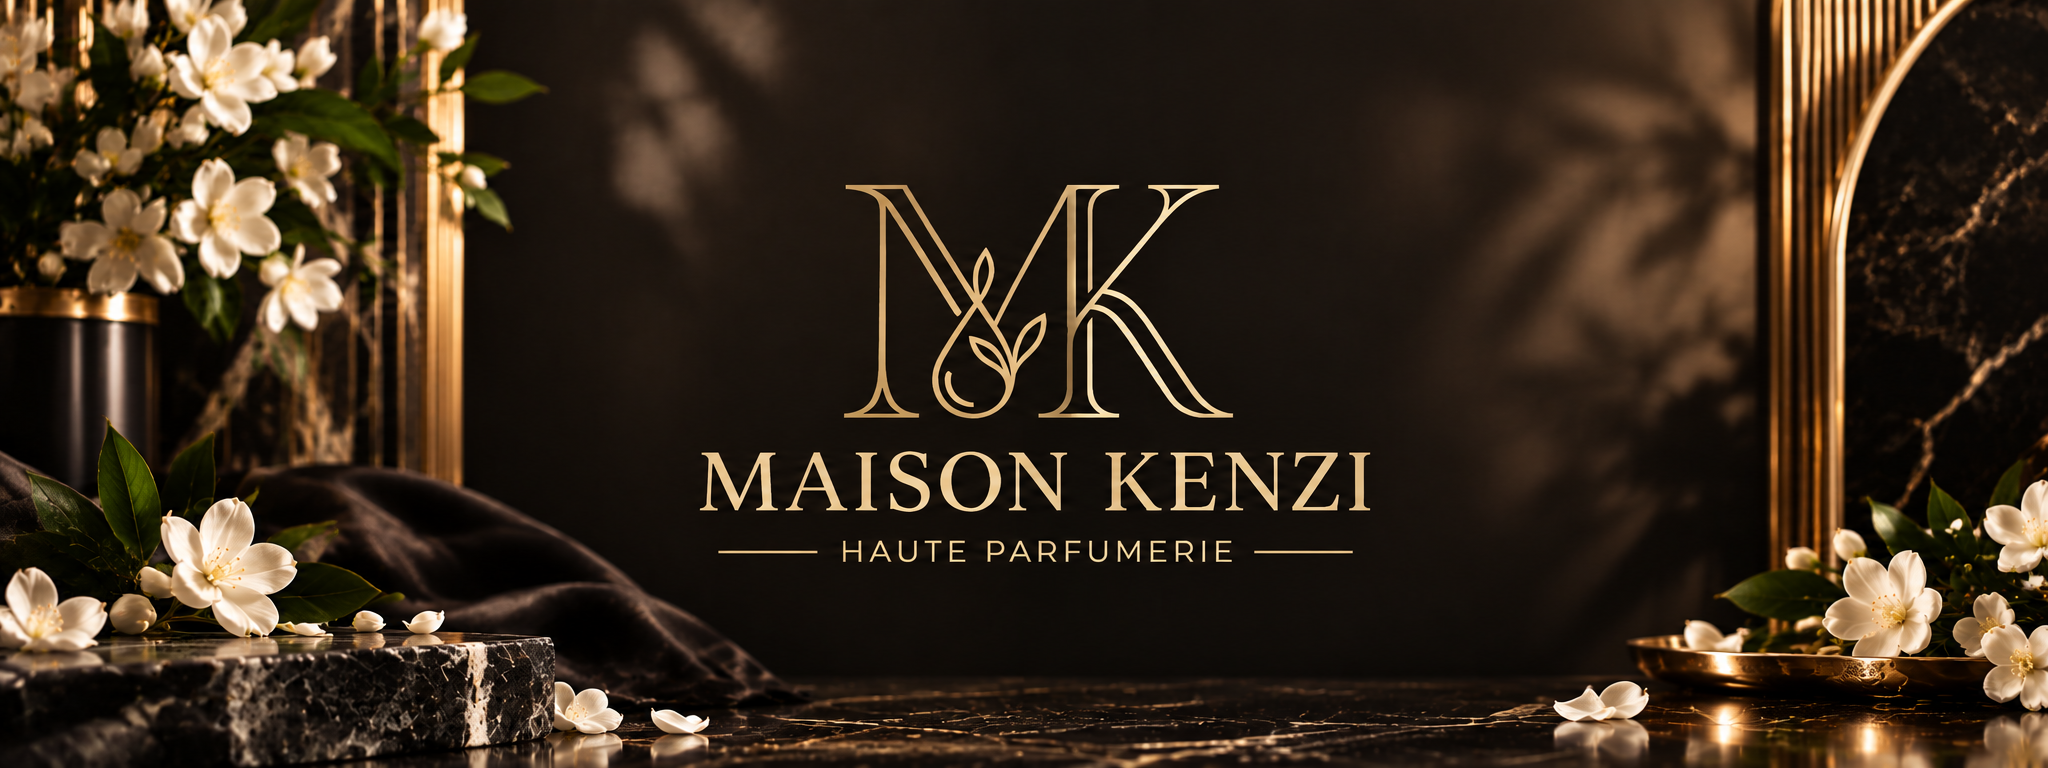
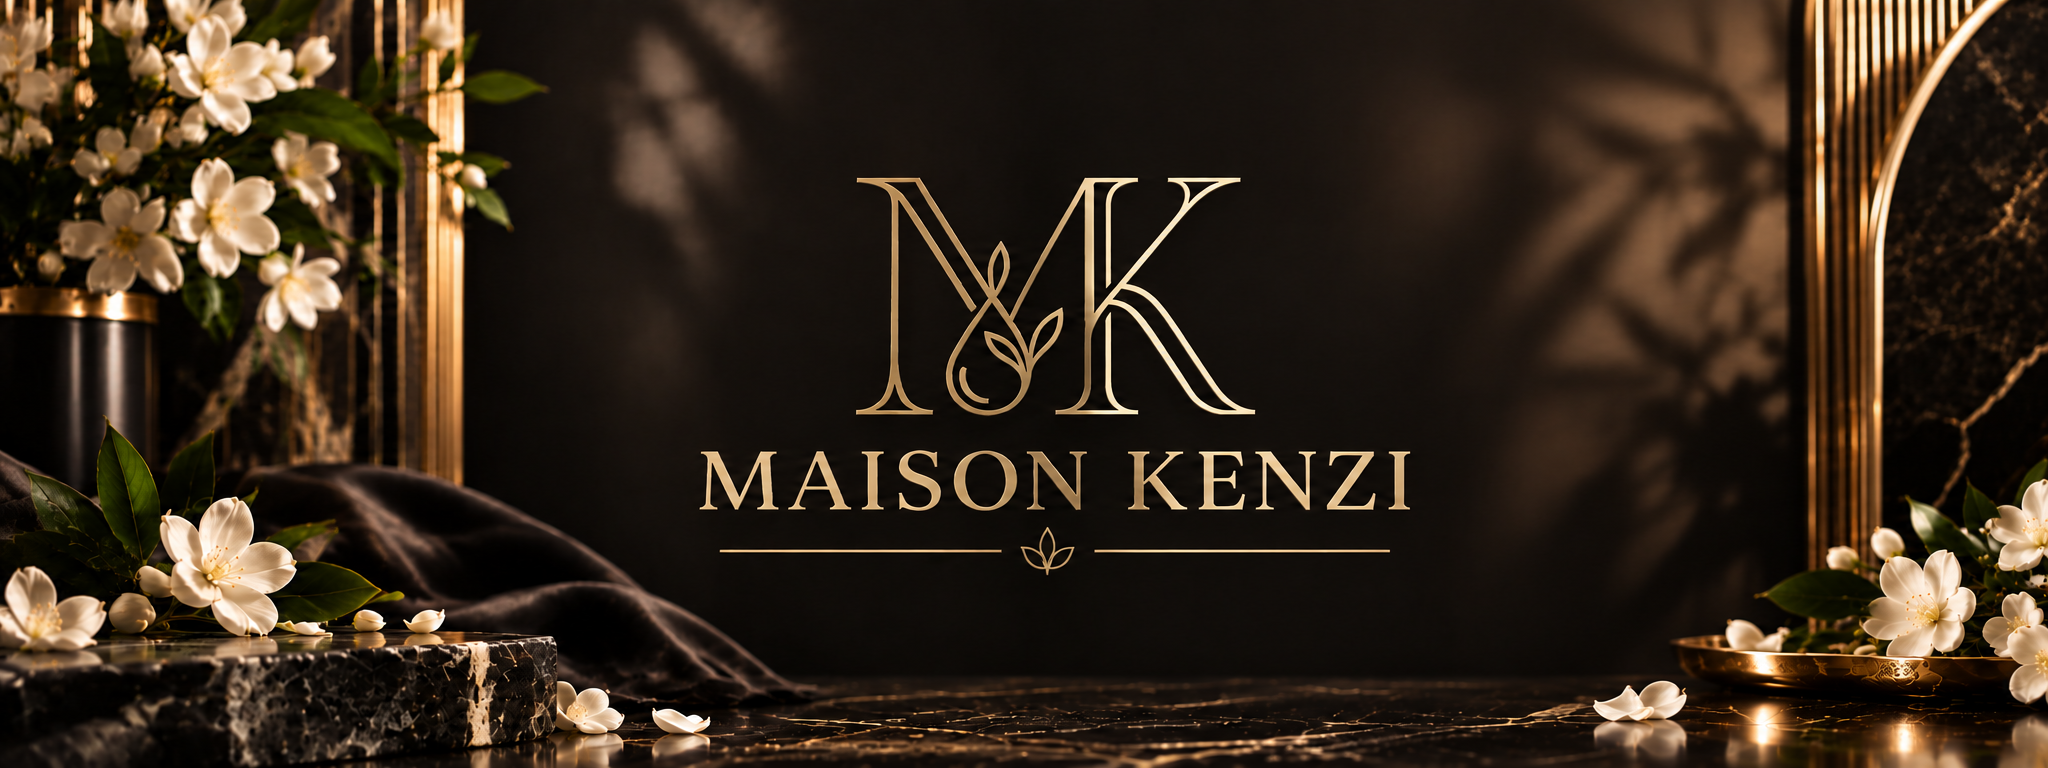
fix(categories): unification de la taille de la section photo des categories

diff --git a/src/pages/Category.tsx b/src/pages/Category.tsx
@@ -1,3 +1,10 @@
+/**
+ * Page Catalogue & Collections — Maison Kenzi
+ *
+ * Affiche le catalogue de créations olfactives et soins d'exception avec un bandeau hero
+ * à hauteur unifiée et calibrée pour toutes les collections, filtres dynamiques, tri et pagination.
+ */
+
 import { useState, useMemo, useEffect } from "react";
 import { useParams, Link, useNavigate } from "react-router-dom";
 import Header from "../components/header/Header";
@@ -277,7 +284,9 @@ const Collection = () => {
       return currentCategoryObj.images.filter(Boolean);
     }
     const single = currentCategoryObj?.image || currentCategoryObj?.icon;
-    return single ? [single] : [];
+    if (single) return [single];
+    // Bannière de repli prestigieuse Maison Kenzi pour unifier toutes les collections
+    return ["/mk-banner.png"];
   }, [currentCategoryObj]);
 
   const [currentBannerIndex, setCurrentBannerIndex] = useState(0);
@@ -333,192 +342,145 @@ const Collection = () => {
       <Header />
 
       <main className="flex-1 pb-16">
-        {/* Luxury Category Hero Banner (Automatique 5s + Manuel au choix) */}
-        {categoryBanners.length > 0 ? (
-          <section
-            onMouseEnter={() => setIsPaused(true)}
-            onMouseLeave={() => setIsPaused(false)}
-            onTouchStart={handleTouchStart}
-            onTouchEnd={handleTouchEnd}
-            className="relative w-full overflow-hidden bg-[#0C0B0A] border-b border-[#C9A96E]/20 group/hero select-none"
-          >
-            {/* Images de fond en carrousel avec transition douce (cross-fade) */}
-            <div className="absolute inset-0 z-0 pointer-events-none">
-              {categoryBanners.map((imgUrl, idx) => (
-                <div
-                  key={`${imgUrl}-${idx}`}
-                  className={`absolute inset-0 transition-all duration-1000 ease-in-out ${idx === currentBannerIndex
-                    ? "opacity-100 scale-100"
-                    : "opacity-0 scale-105 pointer-events-none"
-                    }`}
-                >
-                  <img
-                    src={imgUrl}
-                    alt={`${hero.title} — Bannière ${idx + 1}`}
-                    className="w-full h-full object-cover object-center"
-                  />
-                </div>
-              ))}
-
-              {/* Voiles de dégradé pour préserver l'éclat de la photo tout en assurant une lisibilité parfaite */}
-              <div className="absolute inset-0 bg-gradient-to-t from-black/60 via-black/25 to-black/15" />
-              <div className="absolute inset-0 bg-gradient-to-r from-black/50 via-black/20 to-transparent" />
-            </div>
-
-            {/* Contrôles fléchés manuels de navigation (si > 1 photo) */}
-            {categoryBanners.length > 1 && (
-              <>
-                <button
-                  type="button"
-                  onClick={(e) => {
-                    e.stopPropagation();
-                    prevBanner();
-                  }}
-                  className="absolute left-3 sm:left-6 top-1/2 -translate-y-1/2 z-20 w-9 h-9 sm:w-11 sm:h-11 rounded-full bg-black/45 hover:bg-[#C9A96E] text-white hover:text-[#121110] border border-white/20 hover:border-[#C9A96E] backdrop-blur-md flex items-center justify-center transition-all opacity-70 sm:opacity-0 group-hover/hero:opacity-100 hover:scale-105 cursor-pointer shadow-lg active:scale-95"
-                  title={t.catalog.prevPhoto}
-                  aria-label={t.catalog.prevPhoto}
-                >
-                  <ChevronLeft className="w-5 h-5" />
-                </button>
-                <button
-                  type="button"
-                  onClick={(e) => {
-                    e.stopPropagation();
-                    nextBanner();
-                  }}
-                  className="absolute right-3 sm:right-6 top-1/2 -translate-y-1/2 z-20 w-9 h-9 sm:w-11 sm:h-11 rounded-full bg-black/45 hover:bg-[#C9A96E] text-white hover:text-[#121110] border border-white/20 hover:border-[#C9A96E] backdrop-blur-md flex items-center justify-center transition-all opacity-70 sm:opacity-0 group-hover/hero:opacity-100 hover:scale-105 cursor-pointer shadow-lg active:scale-95"
-                  title={t.catalog.nextPhoto}
-                  aria-label={t.catalog.nextPhoto}
-                >
-                  <ChevronRight className="w-5 h-5" />
-                </button>
-              </>
-            )}
-
-            {/* Contenu de la Bannière de Catégorie */}
-            <div className="relative z-10 max-w-7xl mx-auto px-4 sm:px-6 pt-32 sm:pt-36 md:pt-40 pb-12 sm:pb-16 flex flex-col justify-end min-h-[280px] sm:min-h-[340px] md:min-h-[380px]">
-              <div className="space-y-3.5 max-w-3xl">
-                {/* Fil d'ariane en verre dépoli */}
-                <Breadcrumb>
-                  <BreadcrumbList className="text-[10px] sm:text-xs">
-                    <BreadcrumbItem>
-                      <BreadcrumbLink asChild>
-                        <Link to="/" className="text-white/70 hover:text-[#C9A96E] transition-colors">
-                          {t.nav.home}
-                        </Link>
-                      </BreadcrumbLink>
-                    </BreadcrumbItem>
-                    <BreadcrumbSeparator className="text-white/40" />
-                    <BreadcrumbItem>
-                      <BreadcrumbPage className="text-[#C9A96E] font-medium">
-                        {hero.title}
-                      </BreadcrumbPage>
-                    </BreadcrumbItem>
-                  </BreadcrumbList>
-                </Breadcrumb>
-
-                {/* Badges d'univers & sous-titre */}
-                <div className="flex items-center gap-2 flex-wrap pt-1">
-                  {hero.badge && (
-                    <div className="inline-flex items-center gap-1.5 px-3 py-1 rounded-full bg-[#C9A96E]/20 border border-[#C9A96E]/40 text-[#C9A96E] text-[10px] sm:text-xs font-semibold uppercase tracking-wider backdrop-blur-md shadow-xs">
-                      <Sparkles className="w-3 h-3 text-[#C9A96E]" />
-                      <span>{hero.badge}</span>
-                    </div>
-                  )}
-                  {hero.subtitle && (
-                    <span className="text-[10px] sm:text-xs uppercase tracking-[0.2em] text-white/75 font-medium px-2.5 py-0.5 rounded-full bg-white/10 backdrop-blur-md border border-white/15">
-                      {hero.subtitle}
-                    </span>
-                  )}
-                </div>
-
-                {/* Titre éditorial de la Collection */}
-                <h1 className="font-serif text-3xl sm:text-5xl md:text-6xl text-white font-normal tracking-tight drop-shadow-md leading-[1.1]">
-                  {hero.title}
-                </h1>
-
-                {/* Description de l'univers olfactif */}
-                {hero.description && (
-                  <p className="text-xs sm:text-sm md:text-base text-white/85 leading-relaxed font-light max-w-2xl pt-1 drop-shadow-xs">
-                    {hero.description}
-                  </p>
-                )}
+        {/* Luxury Category Hero Banner — Hauteur Unifiée & Calibrée pour Toutes les Collections */}
+        <section
+          onMouseEnter={() => setIsPaused(true)}
+          onMouseLeave={() => setIsPaused(false)}
+          onTouchStart={handleTouchStart}
+          onTouchEnd={handleTouchEnd}
+          className="relative w-full h-[360px] sm:h-[400px] md:h-[450px] lg:h-[480px] overflow-hidden bg-[#0C0B0A] border-b border-[#C9A96E]/20 group/hero select-none"
+        >
+          {/* Images de fond en carrousel avec transition douce (cross-fade) */}
+          <div className="absolute inset-0 z-0 pointer-events-none">
+            {categoryBanners.map((imgUrl, idx) => (
+              <div
+                key={`${imgUrl}-${idx}`}
+                className={`absolute inset-0 transition-all duration-1000 ease-in-out ${idx === currentBannerIndex
+                  ? "opacity-100 scale-100"
+                  : "opacity-0 scale-105 pointer-events-none"
+                  }`}
+              >
+                <img
+                  src={imgUrl}
+                  alt={`${hero.title} — Bannière ${idx + 1}`}
+                  className="w-full h-full object-cover object-center"
+                />
               </div>
+            ))}
 
-              {/* Contrôles de navigation manuels (Puces + Compteur interactif) */}
-              {categoryBanners.length > 1 && (
-                <div className="flex items-center gap-3 pt-6">
-                  <div className="flex items-center gap-2 bg-black/30 backdrop-blur-md px-3 py-1.5 rounded-full border border-white/10">
-                    {categoryBanners.map((_, dotIdx) => (
-                      <button
-                        key={`dot-${dotIdx}`}
-                        type="button"
-                        onClick={(e) => {
-                          e.stopPropagation();
-                          setCurrentBannerIndex(dotIdx);
-                        }}
-                        className={`h-2 rounded-full transition-all duration-300 cursor-pointer ${dotIdx === currentBannerIndex
-                          ? "w-7 bg-[#C9A96E] shadow-sm shadow-[#C9A96E]/50"
-                          : "w-2 bg-white/40 hover:bg-white/80"
-                          }`}
-                        title={`${t.catalog.prevPhoto} ${dotIdx + 1}`}
-                        aria-label={`${t.catalog.prevPhoto} ${dotIdx + 1}`}
-                      />
-                    ))}
-                    <span className="text-[10px] font-medium text-white/70 ml-1">
-                      {currentBannerIndex + 1} / {categoryBanners.length}
-                    </span>
-                  </div>
-                </div>
-              )}
-            </div>
-          </section>
-        ) : (
-          /* En-tête épuré standard lorsque la catégorie n'a pas d'image */
-          <section className="relative w-full border-b border-border/70 bg-gradient-to-b from-card/60 via-card/30 to-background pt-28 sm:pt-32 md:pt-36 pb-8 sm:pb-12 px-4 sm:px-6 overflow-hidden">
-            {/* Subtle Ambient Glow */}
-            <div className="absolute top-0 left-1/2 -translate-x-1/2 w-3/4 h-36 bg-primary/5 blur-3xl rounded-full pointer-events-none" />
+            {/* Voiles de dégradé pour préserver l'éclat de la photo tout en assurant une lisibilité parfaite */}
+            <div className="absolute inset-0 bg-gradient-to-t from-black/75 via-black/35 to-black/20" />
+            <div className="absolute inset-0 bg-gradient-to-r from-black/60 via-black/25 to-transparent" />
+          </div>
 
-            <div className="max-w-7xl mx-auto relative z-10 space-y-4">
-              {/* Breadcrumb */}
+          {/* Contrôles fléchés manuels de navigation (si > 1 photo) */}
+          {categoryBanners.length > 1 && (
+            <>
+              <button
+                type="button"
+                onClick={(e) => {
+                  e.stopPropagation();
+                  prevBanner();
+                }}
+                className="absolute left-3 sm:left-6 top-1/2 -translate-y-1/2 z-20 w-9 h-9 sm:w-11 sm:h-11 rounded-full bg-black/45 hover:bg-[#C9A96E] text-white hover:text-[#121110] border border-white/20 hover:border-[#C9A96E] backdrop-blur-md flex items-center justify-center transition-all opacity-70 sm:opacity-0 group-hover/hero:opacity-100 hover:scale-105 cursor-pointer shadow-lg active:scale-95"
+                title={t.catalog.prevPhoto}
+                aria-label={t.catalog.prevPhoto}
+              >
+                <ChevronLeft className="w-5 h-5" />
+              </button>
+              <button
+                type="button"
+                onClick={(e) => {
+                  e.stopPropagation();
+                  nextBanner();
+                }}
+                className="absolute right-3 sm:right-6 top-1/2 -translate-y-1/2 z-20 w-9 h-9 sm:w-11 sm:h-11 rounded-full bg-black/45 hover:bg-[#C9A96E] text-white hover:text-[#121110] border border-white/20 hover:border-[#C9A96E] backdrop-blur-md flex items-center justify-center transition-all opacity-70 sm:opacity-0 group-hover/hero:opacity-100 hover:scale-105 cursor-pointer shadow-lg active:scale-95"
+                title={t.catalog.nextPhoto}
+                aria-label={t.catalog.nextPhoto}
+              >
+                <ChevronRight className="w-5 h-5" />
+              </button>
+            </>
+          )}
+
+          {/* Contenu de la Bannière de Catégorie avec Hauteur Calibrée */}
+          <div className="relative z-10 max-w-7xl w-full mx-auto px-4 sm:px-6 h-full flex flex-col justify-end pb-8 sm:pb-10 md:pb-12">
+            <div className="space-y-3 max-w-3xl">
+              {/* Fil d'ariane en verre dépoli */}
               <Breadcrumb>
                 <BreadcrumbList className="text-[10px] sm:text-xs">
                   <BreadcrumbItem>
                     <BreadcrumbLink asChild>
-                      <Link to="/" className="text-muted-foreground hover:text-primary transition-colors">
+                      <Link to="/" className="text-white/70 hover:text-[#C9A96E] transition-colors">
                         {t.nav.home}
                       </Link>
                     </BreadcrumbLink>
                   </BreadcrumbItem>
-                  <BreadcrumbSeparator />
+                  <BreadcrumbSeparator className="text-white/40" />
                   <BreadcrumbItem>
-                    <BreadcrumbPage className="text-foreground font-medium">
+                    <BreadcrumbPage className="text-[#C9A96E] font-medium">
                       {hero.title}
                     </BreadcrumbPage>
                   </BreadcrumbItem>
                 </BreadcrumbList>
               </Breadcrumb>
 
-              {/* Header Content */}
-              <div className="max-w-3xl space-y-2">
+              {/* Badges d'univers & sous-titre */}
+              <div className="flex items-center gap-2 flex-wrap pt-0.5">
                 {hero.badge && (
-                  <div className="inline-flex items-center gap-1.5 px-3 py-1 rounded-full bg-primary/10 border border-primary/20 text-primary text-[10px] sm:text-xs font-semibold uppercase tracking-wider">
-                    <Sparkles className="w-3 h-3" />
+                  <div className="inline-flex items-center gap-1.5 px-3 py-1 rounded-full bg-[#C9A96E]/20 border border-[#C9A96E]/40 text-[#C9A96E] text-[10px] sm:text-xs font-semibold uppercase tracking-wider backdrop-blur-md shadow-xs">
+                    <Sparkles className="w-3 h-3 text-[#C9A96E]" />
                     <span>{hero.badge}</span>
                   </div>
                 )}
-                <h1 className="font-serif text-3xl sm:text-4xl md:text-5xl text-foreground font-bold tracking-tight">
-                  {hero.title}
-                </h1>
-                {hero.description && (
-                  <p className="text-xs sm:text-sm text-muted-foreground leading-relaxed font-light pt-1">
-                    {hero.description}
-                  </p>
+                {hero.subtitle && (
+                  <span className="text-[10px] sm:text-xs uppercase tracking-[0.2em] text-white/75 font-medium px-2.5 py-0.5 rounded-full bg-white/10 backdrop-blur-md border border-white/15">
+                    {hero.subtitle}
+                  </span>
                 )}
               </div>
+
+              {/* Titre éditorial de la Collection */}
+              <h1 className="font-serif text-2xl sm:text-4xl md:text-5xl lg:text-6xl text-white font-normal tracking-tight drop-shadow-md leading-[1.1]">
+                {hero.title}
+              </h1>
+
+              {/* Description de l'univers olfactif */}
+              {hero.description && (
+                <p className="text-xs sm:text-sm md:text-base text-white/85 leading-relaxed font-light max-w-2xl line-clamp-2 sm:line-clamp-3 drop-shadow-xs">
+                  {hero.description}
+                </p>
+              )}
             </div>
-          </section>
-        )}
+
+            {/* Contrôles de navigation manuels (Puces + Compteur interactif) */}
+            {categoryBanners.length > 1 && (
+              <div className="flex items-center gap-3 pt-4">
+                <div className="flex items-center gap-2 bg-black/30 backdrop-blur-md px-3 py-1.5 rounded-full border border-white/10">
+                  {categoryBanners.map((_, dotIdx) => (
+                    <button
+                      key={`dot-${dotIdx}`}
+                      type="button"
+                      onClick={(e) => {
+                        e.stopPropagation();
+                        setCurrentBannerIndex(dotIdx);
+                      }}
+                      className={`h-2 rounded-full transition-all duration-300 cursor-pointer ${dotIdx === currentBannerIndex
+                        ? "w-7 bg-[#C9A96E] shadow-sm shadow-[#C9A96E]/50"
+                        : "w-2 bg-white/40 hover:bg-white/80"
+                        }`}
+                      title={`${t.catalog.prevPhoto} ${dotIdx + 1}`}
+                      aria-label={`${t.catalog.prevPhoto} ${dotIdx + 1}`}
+                    />
+                  ))}
+                  <span className="text-[10px] font-medium text-white/70 ml-1">
+                    {currentBannerIndex + 1} / {categoryBanners.length}
+                  </span>
+                </div>
+              </div>
+            )}
+          </div>
+        </section>
 
         {/* Collection Selector & Filter Navigation */}
         <section className="w-full max-w-7xl mx-auto px-4 sm:px-6 pt-6 mb-4 sm:mb-6">

diff --git a/src/components/content/FiftyFiftySection.tsx b/src/components/content/FiftyFiftySection.tsx
@@ -35,23 +35,15 @@ const Card = ({
     to={href}
     className="group relative overflow-hidden rounded-2xl border border-border/70 hover:border-primary/50 transition-all duration-700 shadow-nude aspect-[3/4] flex flex-col justify-between p-4 sm:p-6 bg-card"
   >
-    {/* Image de fond de catégorie si configurée */}
-    {image && (
-      <img
-        src={image}
-        alt={title}
-        className="absolute inset-0 w-full h-full object-cover transition-transform duration-700 group-hover:scale-105"
-      />
-    )}
-
-    {/* Voile de fond feutré */}
-    <div
-      className={`absolute inset-0 z-1 transition-opacity duration-500 ${
-        image
-          ? "bg-gradient-to-t from-black/85 via-black/40 to-black/20 group-hover:opacity-90"
-          : "bg-gradient-to-t from-black/80 via-black/30 to-black/10 group-hover:opacity-90"
-      }`}
+    {/* Image de fond de catégorie (taille et ratio 3:4 unifiés) */}
+    <img
+      src={image || "/mk-banner.png"}
+      alt={title}
+      className="absolute inset-0 w-full h-full object-cover transition-transform duration-700 group-hover:scale-105"
     />
+
+    {/* Voile de fond feutré uniforme */}
+    <div className="absolute inset-0 z-1 transition-opacity duration-500 bg-gradient-to-t from-black/85 via-black/40 to-black/20 group-hover:opacity-90" />
 
     {/* Badge supérieur */}
     <div className="relative z-10 flex items-center justify-between gap-2 flex-wrap">
@@ -126,7 +118,7 @@ const FiftyFiftySection = () => {
               text={displayDesc}
               href={`/collection/${cat.slug}`}
               tag={displayName}
-              image={cat.image || cat.icon || (cat.images && cat.images.length > 0 ? cat.images[0] : undefined)}
+              image={cat.image || cat.icon || (cat.images && cat.images.length > 0 ? cat.images[0] : "/mk-banner.png")}
               isComingSoon={effectiveComingSoon}
               discoverText={effectiveComingSoon ? t.univers.discover : t.common.explore}
               comingSoonText={t.univers.comingSoon}

diff --git a/Avancement.md b/Avancement.md
@@ -3,11 +3,24 @@
 ## État d'Avancement Global
 
 - **Dernière mise à jour** : 2026-09-14
-- **Statut général** : Traduction Intégrale Bilingue (FR/EN) du Menu Collections dans la Barre de Navigation — 100% Déployé & Zéro Emoji
+- **Statut général** : Unification Calibrée de la Section Photo des Catégories (Catalogue & Accueil) — 100% Déployé & Zéro Emoji
 
 ---
 
 ## Historique des Tâches Réalisées
+
+- [x] Unification de la Taille de la Section Photo des Catégories ([`src/pages/Category.tsx`](file:///c:/Users/PC/Desktop/Maison-Kenzi/src/pages/Category.tsx), [`src/components/content/FiftyFiftySection.tsx`](file:///c:/Users/PC/Desktop/Maison-Kenzi/src/components/content/FiftyFiftySection.tsx)) :
+  - [x] **Hauteur Calibrée et Uniforme du Hero de Catégorie ([`Category.tsx`](file:///c:/Users/PC/Desktop/Maison-Kenzi/src/pages/Category.tsx))** :
+    - Remplacement de la hauteur dynamique non contrainte par une hauteur responsive fixe et calibrée : `h-[360px] sm:h-[400px] md:h-[450px] lg:h-[480px]`.
+    - Harmonisation complète du contenu intérieur : conteneur `h-full flex flex-col justify-end pb-8 sm:pb-10 md:pb-12` avec dégradés protecteurs multicouches et troncature élégante des textes (`line-clamp-2 sm:line-clamp-3`).
+    - Aucune variation ou saut de mise en page (*layout shift*) lors du passage d'une collection à une autre.
+  - [x] **Garantie d'Image de Bannière Prestigieuse pour Toutes les Collections** :
+    - Mise en place d'une bannière de repli de prestige systématique (`/mk-banner.png`) pour toutes les catégories sans image dédiée ou pour la vue générale `/collection/all`.
+    - Suppression du bloc de secours textuel disparate pour offrir une expérience visuelle immersive et homogène sur 100% des catégories.
+  - [x] **Harmonisation des Cartes de Catégories sur la Page d'Accueil ([`FiftyFiftySection.tsx`](file:///c:/Users/PC/Desktop/Maison-Kenzi/src/components/content/FiftyFiftySection.tsx))** :
+    - Formatage uniforme de toutes les cartes d'univers olfactifs avec un ratio d'aspect strict `aspect-[3/4]`, couverture totale `object-cover w-full h-full` et repli automatique sur `/mk-banner.png`.
+    - Voile de dégradé feutré identique pour un contraste et une lisibilité parfaits.
+  - [x] **Conformité Luxury Nude Design System & Zéro Emoji** : Icônes vectorielles `lucide-react`, palette champagne gold `#C9A96E`.
 
 - [x] Traduction Intégrale Bilingue (FR / EN) du Menu « Collections » dans la Navigation ([`src/components/header/Navigation.tsx`](file:///c:/Users/PC/Desktop/Maison-Kenzi/src/components/header/Navigation.tsx), [`src/i18n/translations.ts`](file:///c:/Users/PC/Desktop/Maison-Kenzi/src/i18n/translations.ts)) :
   - [x] **Traduction Dynamique des Catégories & Descriptions (Desktop & Mobile)** :
